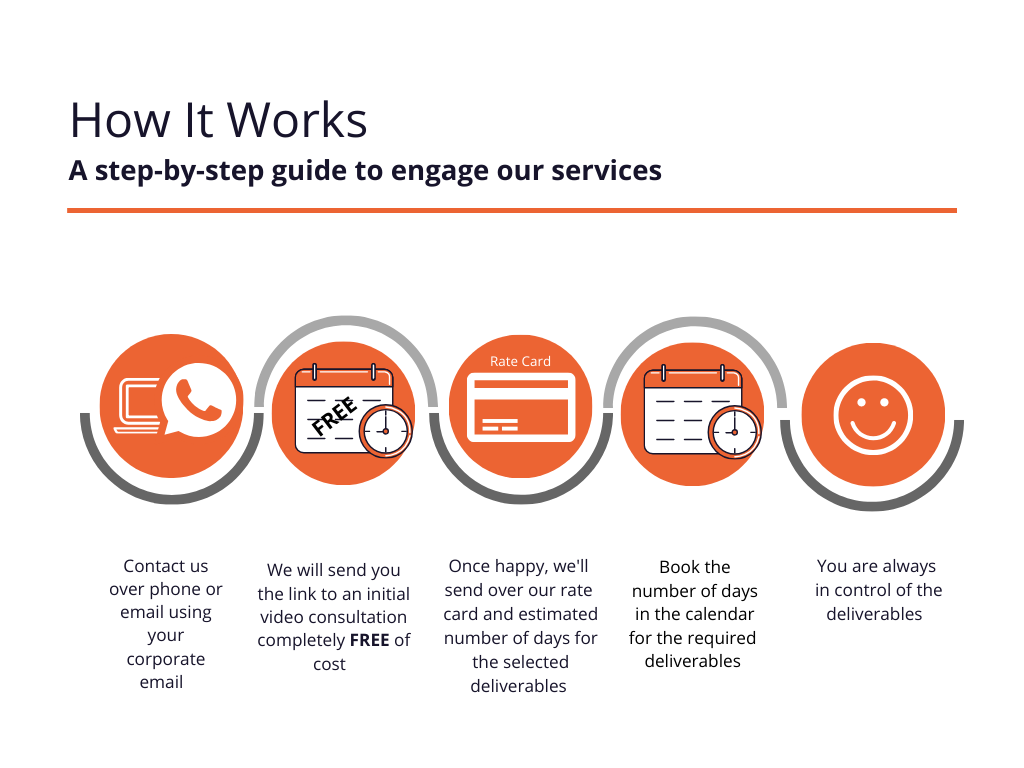
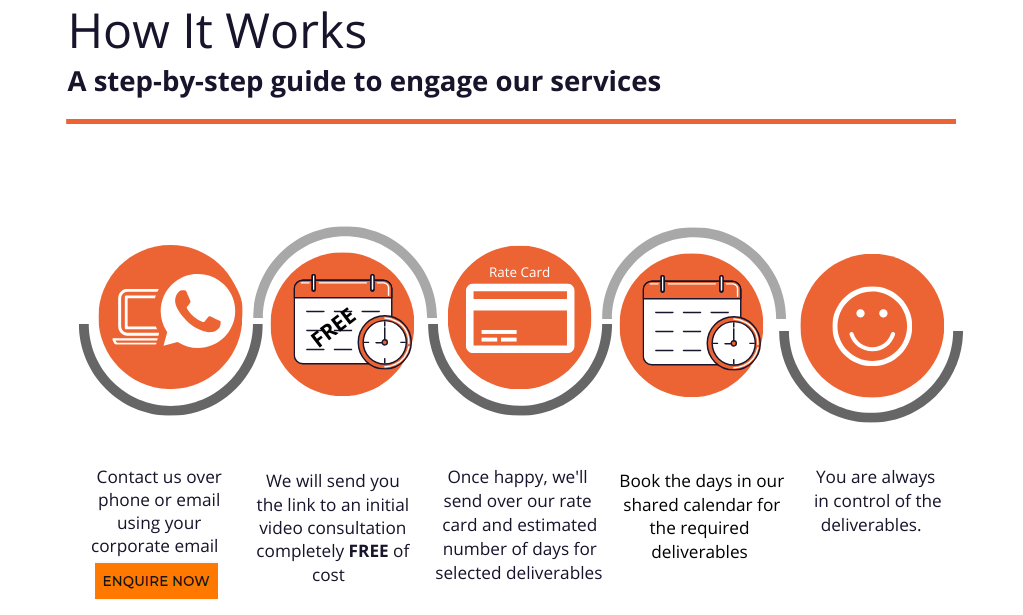
rmeoved EA Capabilitis

diff --git a/how.html b/how.html
@@ -34,6 +34,7 @@
       <ul class="navbar-nav justify-content-between">
         <li class="nav-item"> <a class="nav-link" href="index.html">Home</a> </li>
         <!--<li class="nav-item"> <a class="nav-link" href="#">About us</a> </li>-->
+        <li class="nav-item"> <a class="nav-link" href="how.html">How It Works</a> </li>
         <li class="nav-item"> <a class="nav-link" href="portfolio.html">Why Us?</a> </li>
         <li class="nav-item"> <a class="nav-link" href="testimonials.html">Case Studies</a> </li>
         <li class="nav-item"> <a class="nav-link" href="contact-us.html"> Contact us</a> </li>
@@ -49,7 +50,7 @@
       
 	  <div class="col-md-12">
            
-	  <img class="card-img-top" src="./images/HIW.png" alt="Card image">
+      <a href="contact-us.html"><img src="./images/HIW.png" alt="Contact Us" ></a>
 
 	  </div>
 	 
@@ -122,8 +123,7 @@
           <div class="col-md-4">
             <ul>
               <li><a href="index.html">Home</a></li>
-              <!--<li><a href="about-us.html">About us</a></li>-->
-              <li><a href="offerings.html">EA Capabilities</a></li>
+             
             </ul>
           </div>
           <div class="col-md-4">

diff --git a/contact-us.html b/contact-us.html
@@ -136,7 +136,6 @@ Worcester Park KT4 7AT</a> </li>
             <ul>
               <li><a href="index.html">Home</a></li>
               <!--<li><a href="about-us.html">About us</a></li> -->
-              <li><a href="offerings.html">EA Capabilities</a></li>
             </ul>
           </div>
           <div class="col-md-4">

diff --git a/portfolio.html b/portfolio.html
@@ -187,7 +187,6 @@
             <ul>
               <li><a href="index.html">Home</a></li>
               <!--<li><a href="about-us.html">About us</a></li>-->
-              <li><a href="offerings.html">EA Capabilities</a></li>
             </ul>
           </div>
           <div class="col-md-4">
